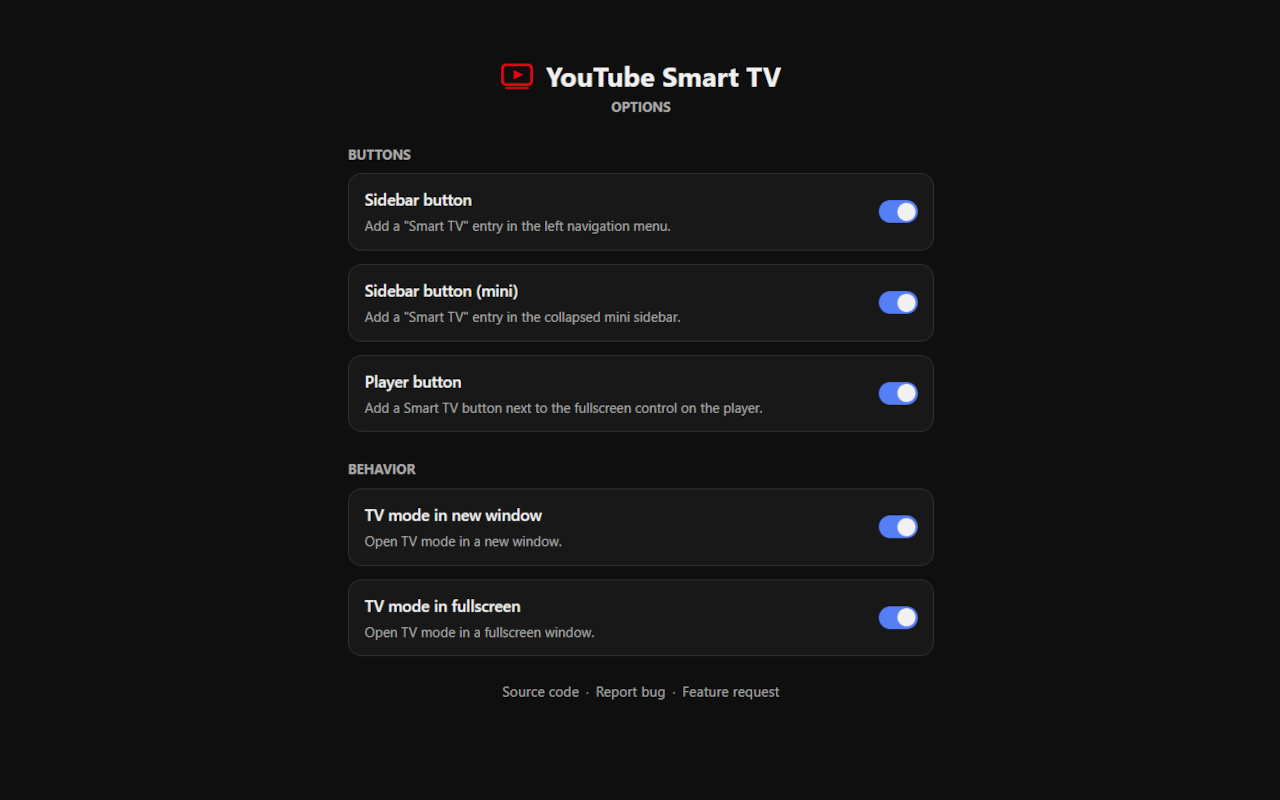
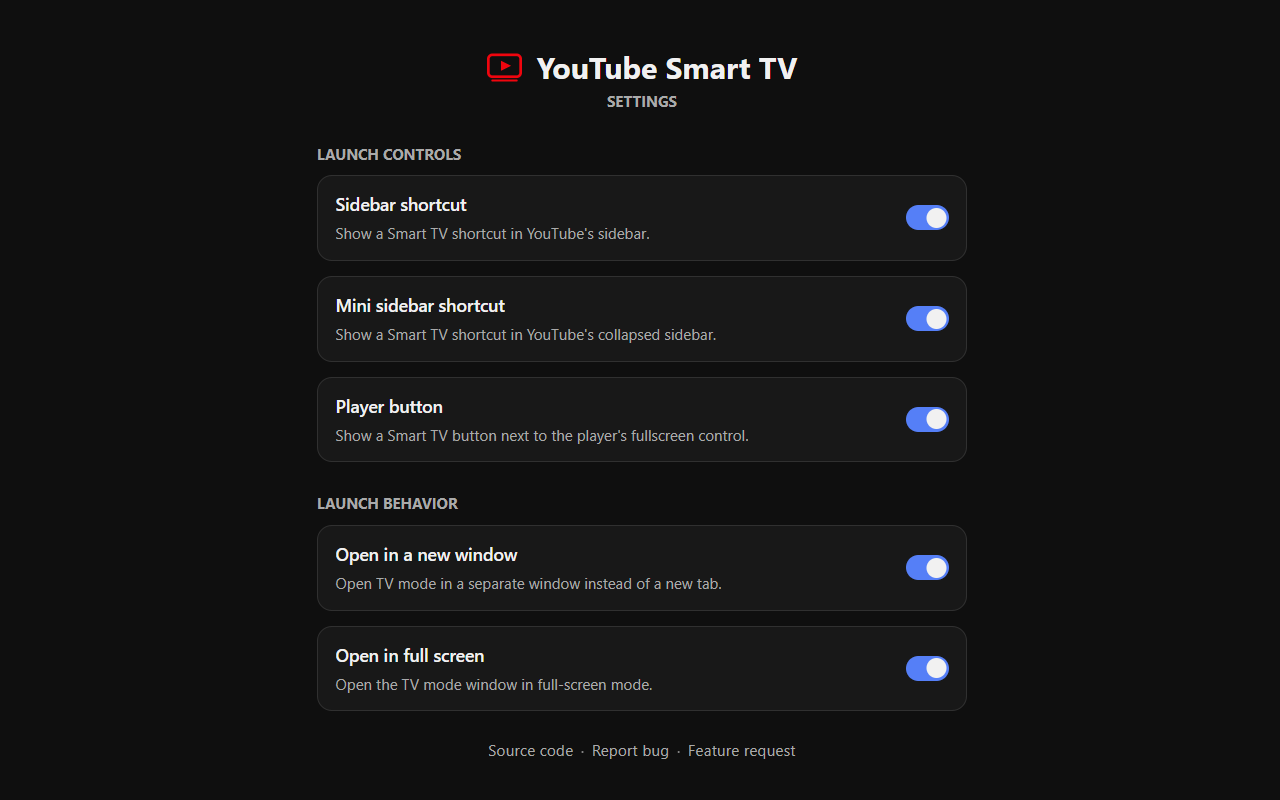
Add new settings page screenshot

diff --git a/assets/store/CHROME_WEB_STORE.md b/assets/store/CHROME_WEB_STORE.md
@@ -103,4 +103,4 @@ No extension-specific credentials are required. A YouTube sign-in may be require
 3. Start playback, click the player button, and confirm that the TV interface opens with the same video at approximately the same playback position.
 4. Press Esc until YouTube displays its exit screen and confirm that the TV tab or window closes automatically.
 5. Reopen TV mode and hold Esc for three seconds to verify the fallback exit behavior.
-6. Open the extension's options page, change the button visibility and launch behavior settings, and verify that the corresponding controls and tab or window behavior update.
+6. Open the extension's settings page, change the "Launch controls" and "Launch behavior" settings, and verify that the corresponding controls and tab or window behavior update.
